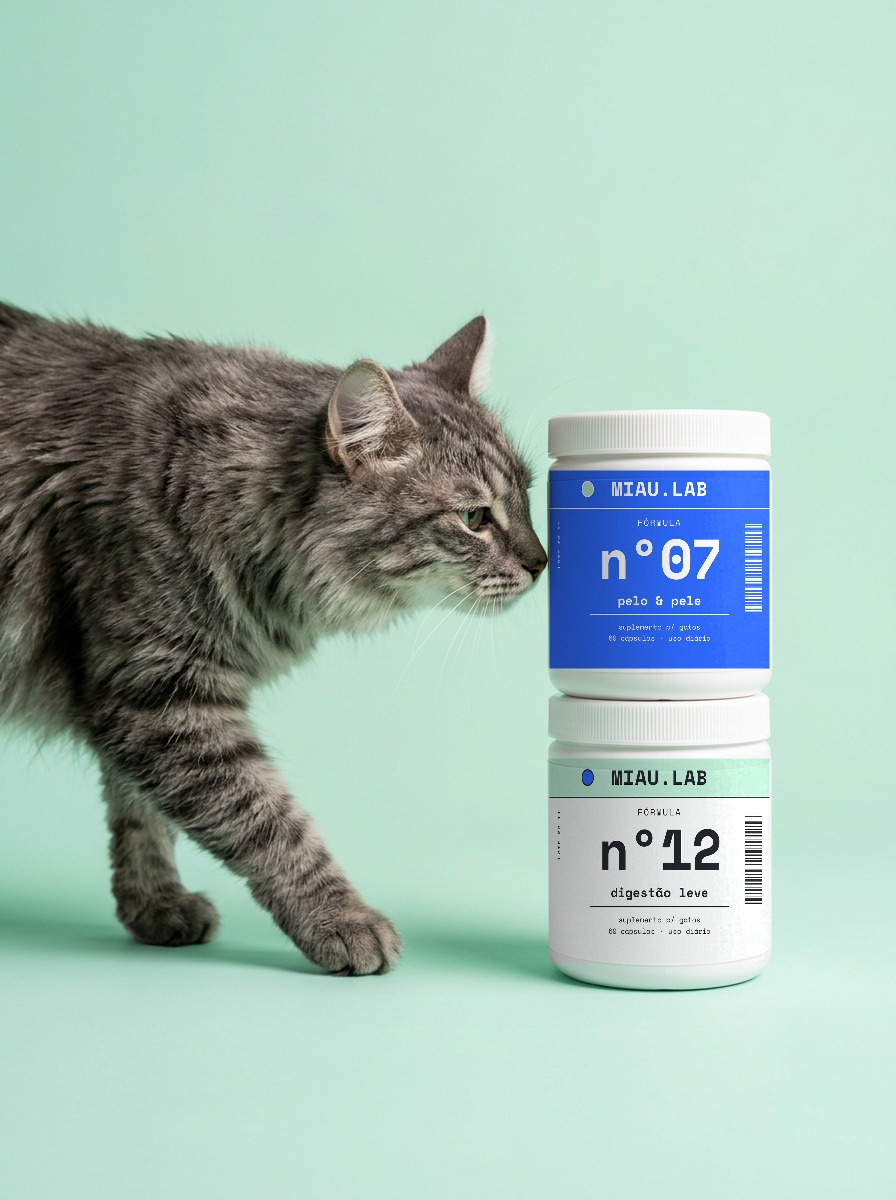
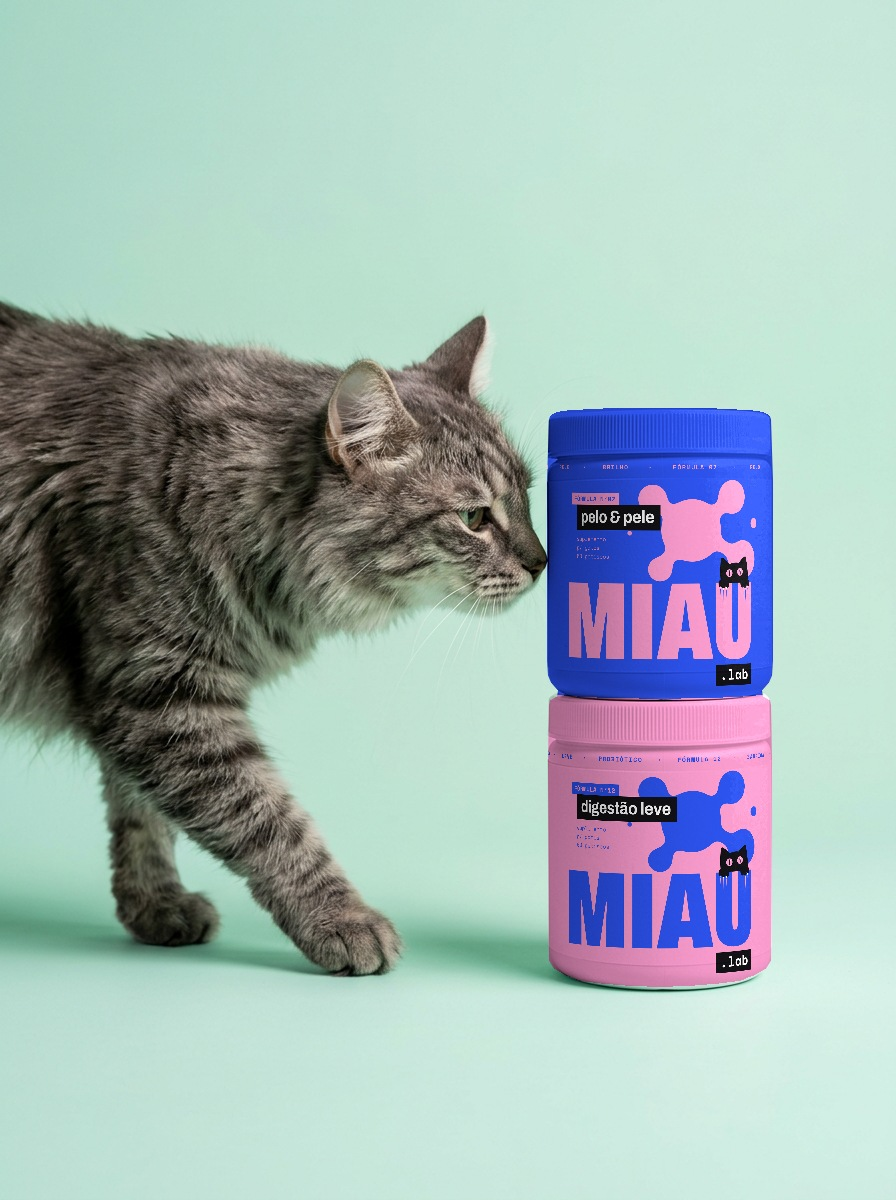
EMS: MIAU.LAB, mockup dos potes com a identidade nova
pinta_potes.py pinta os dois potes da foto inteiros (tampa e corpo) em azul e
rosa e enrola o rótulo no corpo pelo cilindro: cada pixel vira ângulo e
altura, e a altura desconta a curva da elipse, que cresce para baixo. A borda
da silhueta foi medida linha a linha na foto e espelhada no eixo. Assim o
rótulo deixa de sair torto.

Claude-Session: https://claude.ai/code/session_01CmCiK9WG5RWJH1hBNUU9U9

Changed region(s): [[0.5938, 0.3392, 0.875, 0.8325]]

diff --git a/Emi/ems-5-direcoes-pet/projeto/marcas/miaulab/mockup/pinta_potes.py b/Emi/ems-5-direcoes-pet/projeto/marcas/miaulab/mockup/pinta_potes.py
@@ -1,0 +1,66 @@
+# Mockup MIAU.LAB: pinta os dois potes brancos da foto (base-potes.png) inteiros na cor da marca (tampa e corpo)
+# e enrola a arte do rótulo no corpo, seguindo a curva do pote.
+# A versão anterior ficou "torta" porque o rótulo tinha borda reta e a boca do pote é curva. Aqui cada pixel do pote
+# vira (ângulo, altura) no cilindro: a altura desconta a curva da elipse, b(h) = K * (h - H0), que cresce para baixo
+# porque a câmera está na altura da tampa de cima (medido nas frestas: 455 reta, 699 com ~8 px de curva, 748 com ~9).
+# uso: pinta_potes.py <saida.jpg> <arte-pote-de-cima.png> <cor-de-cima> <arte-pote-de-baixo.png> <cor-de-baixo>
+import sys
+import numpy as np, cv2
+from PIL import Image
+
+saida, arte1, cor1, arte2, cor2 = sys.argv[1:6]
+foto = np.asarray(Image.open('base-potes.png').convert('RGB')).astype(np.float32) / 255
+H, W = foto.shape[:2]
+lum = foto.mean(2)
+K, H0 = 0.028, 455.0
+
+# silhueta: borda direita medida linha a linha (a esquerda tem o focinho do gato e a sombra da base), espelhada no eixo CX.
+# As linhas de cima (408-420) e de baixo (975-986) estreitam: são os cantos arredondados da tampa e da base.
+CX = 659.5
+borda_dir = {408: 716, 409: 736, 410: 752, 411: 759, 412: 763, 413: 765, 414: 767, 416: 769, 419: 770, 450: 771, 480: 772,
+             660: 772, 675: 771, 682: 768, 690: 761, 696: 762, 700: 769, 705: 770, 760: 771, 960: 770, 968: 765, 975: 753,
+             977: 747, 979: 743, 980: 740, 981: 734, 983: 718, 985: 694, 986: 672}
+ys = sorted(borda_dir)
+meia = np.interp(np.arange(H), ys, [borda_dir[y] + 0.5 - CX for y in ys], left=-1, right=-1)
+
+yy, xx = np.mgrid[0:H, 0:W].astype(np.float32)
+cob = np.clip(meia[yy.astype(int)] - np.abs(xx - CX) + 0.5, 0, 1)
+# o focinho do gato só encosta na borda esquerda (termina em x=546): nada a proteger dentro do pote
+
+# coordenadas no cilindro
+r = 112.5
+t = np.clip((xx - CX) / r, -0.999, 0.999)
+c = np.sqrt(1 - t * t)
+h = (yy + H0 * K * c) / (1 + K * c)          # altura na borda (sem a curva da elipse)
+u = np.arcsin(t) / np.pi + 0.5               # 0..1 na meia volta da frente
+
+def lin(rgb): return np.where(rgb <= 0.04045, rgb / 12.92, ((rgb + 0.055) / 1.055) ** 2.4)
+def srgb(l): return np.where(l <= 0.0031308, l * 12.92, 1.055 * np.clip(l, 0, None) ** (1 / 2.4) - 0.055)
+def hexrgb(hx): return np.array([int(hx[i:i + 2], 16) for i in (1, 3, 5)], np.float32) / 255
+
+sel = cob > 0.9
+ref = np.percentile(lum[sel], 97)
+sombra = np.clip(lum / ref, 0, 1.0) ** 2.2                   # luz da foto em linear
+brilho = np.clip((lum - ref * 0.985) * 4, 0, 0.12)[..., None]  # o pouco de brilho do plástico
+grao = (lum - cv2.GaussianBlur(lum, (0, 0), 1.3))[..., None] * 0.5
+
+def arte_em(arq, h0, h1):
+    a = np.asarray(Image.open(arq).convert('RGB')).astype(np.float32) / 255
+    ah, aw = a.shape[:2]
+    mu = (u * (aw - 1)).astype(np.float32); mv = ((h - h0) / (h1 - h0) * (ah - 1)).astype(np.float32)
+    return cv2.remap(a, mu, mv, cv2.INTER_AREA if False else cv2.INTER_CUBIC, borderMode=cv2.BORDER_REPLICATE)
+
+base_cor = np.zeros_like(foto)
+# pote de cima: tampa h<455, corpo 455..691.5 · pote de baixo: tampa 691.5..740, corpo 740..
+c1, c2 = hexrgb(cor1), hexrgb(cor2)
+tampa1 = h < 455; corpo1 = (h >= 455) & (h < 691.5); tampa2 = (h >= 691.5) & (h < 740); corpo2 = h >= 740
+base_cor[tampa1] = c1; base_cor[tampa2] = c2
+a1 = arte_em(arte1, 455, 691.5); a2 = arte_em(arte2, 740, 972)
+base_cor[corpo1] = a1[corpo1]; base_cor[corpo2] = a2[corpo2]
+
+pintado = srgb(lin(base_cor) * sombra[..., None]) + brilho + grao
+pintado = np.clip(pintado, 0, 1)
+m = cob[..., None]
+out = foto * (1 - m) + pintado * m
+Image.fromarray((out * 255).astype(np.uint8)).save(saida, quality=93)
+print('ok', saida, 'ref', round(float(ref), 3))
